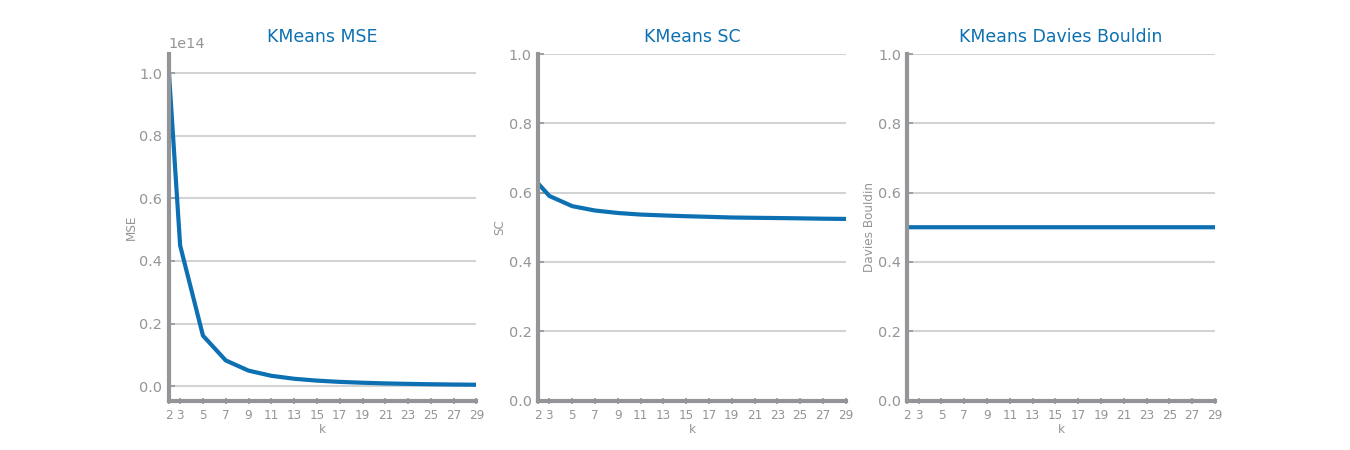
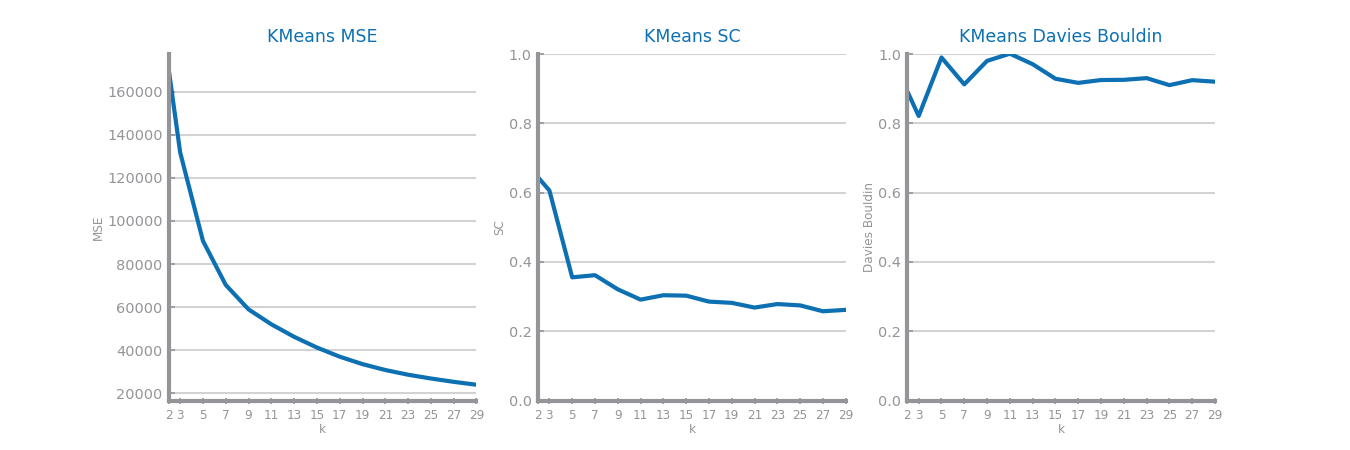
Added all clustering results

diff --git a/clustering.py b/clustering.py
@@ -42,10 +42,10 @@ N_CLUSTERS_NYC = [2, 3, 5, 7, 9, 11, 13, 15, 17, 19, 21, 23, 25, 27, 29]
 rows_nyc, cols_nyc = choose_grid(len(N_CLUSTERS_NYC))
 figname_nyc = "nyc_collisions"
 
-data_air = data_air.sample(frac=0.3)
-data_air_pca = data_air_pca.sample(frac=0.6)
-data_nyc = data_nyc.sample(frac=0.5)
-data_nyc_pca = data_nyc_pca.sample(frac=0.6)
+data_air = data_air.sample(frac=0.15)
+data_air_pca = data_air_pca.sample(frac=0.2)
+data_nyc = data_nyc.sample(frac=0.4)
+data_nyc_pca = data_nyc_pca.sample(frac=0.4)
 #%%
 def kmeans(data, rows, cols, N_CLUSTERS, v1, v2, figname):
     print("KMeans running")
@@ -85,8 +85,7 @@ def kmeans(data, rows, cols, N_CLUSTERS, v1, v2, figname):
 #%%
 #kmeans(data_air, rows_air, cols_air, N_CLUSTERS_AIR, v1_air, v2_air, figname_air)
 #%%
-# TODO:
-# kmeans(data_air_pca, rows_air, cols_air, N_CLUSTERS_AIR, v1_air, v2_air, figname_air_pca)
+# kmeans(data_air_pca, rows_air, cols_air, N_CLUSTERS_AIR, v1_air, v2_air_pca, figname_air_pca)
 
 #%%
 def em(data, rows, cols, N_CLUSTERS, v1, v2, figname):
@@ -169,14 +168,14 @@ def eps_dsbased(data, rows, cols, N_CLUSTERS, v1, v2, figname):
     fig.savefig(f'images/lab8/clustering/{figname}_eps_dsbased_line.png')
     show()
     
-#%% TODO
-eps_dsbased(data_air, rows_air, cols_air, N_CLUSTERS_AIR, v1_air, v2_air, figname_air)
-#%% TODO
-eps_dsbased(data_air_pca, rows_air, cols_air, N_CLUSTERS_AIR, v1_air, v2_air_pca, figname_air_pca)
-#%% TODO
-eps_dsbased(data_nyc, rows_nyc, cols_nyc, N_CLUSTERS_NYC, v1_nyc, v2_nyc, figname_nyc)
-#%% TODO
-eps_dsbased(data_nyc_pca, rows_nyc, cols_nyc, N_CLUSTERS_NYC, v1_nyc, v2_nyc, figname_nyc_pca)
+#%% 
+eps_dsbased(data_air, rows_air, cols_air, N_CLUSTERS_AIR, v1_air, 2, figname_air)
+#%% 
+#eps_dsbased(data_air_pca, rows_air, cols_air, N_CLUSTERS_AIR, v1_air, v2_air_pca, figname_air_pca)
+#%% TODO bad results?
+#eps_dsbased(data_nyc, rows_nyc, cols_nyc, N_CLUSTERS_NYC, v1_nyc, v2_nyc, figname_nyc)
+#%% TODO bad results?
+#eps_dsbased(data_nyc_pca, rows_nyc, cols_nyc, N_CLUSTERS_NYC, v1_nyc, v2_nyc, figname_nyc_pca)
 
 
 #%%
@@ -233,15 +232,15 @@ def eps_metric(data, rows, cols, v1, v2, figname):
     fig.savefig(f'images/lab8/clustering/{figname}_eps_metric_bar.png')
     show()
     
-#%% TODO
-eps_metric(data_air, rows_air, cols_air, v1_air, v2_air, figname_air)
-#%% TODO
-eps_metric(data_air_pca, rows_air, cols_air, v1_air, v2_air_pca, figname_air_pca)
-#%% TODO
-eps_metric(data_nyc, rows_nyc, cols_nyc, v1_nyc, v2_nyc, figname_nyc)
+#%%
+#eps_metric(data_air, rows_air, cols_air, v1_air, v2_air, figname_air)
+#%%  TODO BAD RESULTS?
+#eps_metric(data_air_pca, rows_air, cols_air, v1_air, v2_air_pca, figname_air_pca)
+#%% 
+#eps_metric(data_nyc, rows_nyc, cols_nyc, v1_nyc, v2_nyc, figname_nyc)
 
-#%% TODO
-eps_metric(data_nyc_pca, rows_nyc, cols_nyc, v1_nyc, v2_nyc, figname_nyc_pca)
+#%% 
+#eps_metric(data_nyc_pca, rows_nyc, cols_nyc, v1_nyc, v2_nyc, figname_nyc_pca)
 
 #%%
 def hierarchical(data, rows, cols, N_CLUSTERS, v1, v2, figname):
@@ -251,7 +250,7 @@ def hierarchical(data, rows, cols, N_CLUSTERS, v1, v2, figname):
     mae: list = []
     db: list = []
     rows, cols = choose_grid(len(N_CLUSTERS))
-    _, axs = subplots(rows, cols, figsize=(cols*5, rows*5), squeeze=False)
+    fig, axs = subplots(rows, cols, figsize=(cols*5, rows*5), squeeze=False)
     i, j = 0, 0
     for n in range(len(N_CLUSTERS)):
         print("-",n)
@@ -261,18 +260,20 @@ def hierarchical(data, rows, cols, N_CLUSTERS, v1, v2, figname):
         labels = estimator.labels_
         centers = compute_centroids(data, labels)
         mse.append(compute_mse(data.values, labels, centers))
-        sc.append(silhouette_score(data, labels))
         mae.append(compute_mae(data.values, labels, centers))
+        sc.append(silhouette_score(data, labels))
         db.append(davies_bouldin_score(data, labels))
         plot_clusters(data, v2, v1, labels, centers, k, f'Hierarchical k={k}', ax=axs[i,j])
         i, j = (i + 1, 0) if (n+1) % cols == 0 else (i, j + 1)
-    show()
+    fig.savefig(f'images/lab8/clustering/{figname}_hierarquical_clusters.png')
     fig, ax = subplots(1, 4, figsize=(12, 3), squeeze=False)
     plot_line(N_CLUSTERS, mse, title='Hierarchical MSE', xlabel='k', ylabel='MSE', ax=ax[0, 0])
     plot_line(N_CLUSTERS, sc, title='Hierarchical SC', xlabel='k', ylabel='SC', ax=ax[0, 1], percentage=True)
     plot_line(N_CLUSTERS, mae, title='Hierarchical MAE', xlabel='k', ylabel='MAE', ax=ax[0, 2], percentage=True)
     plot_line(N_CLUSTERS, db, title='Hierarchical Davies Bouldin', xlabel='k', ylabel='Davies Bouldin', ax=ax[0, 3], percentage=True)
-    show()
+    fig.savefig(f'images/lab8/clustering/{figname}_hierarquical_lines.png')
+    
+    print("plotting bars")
     
     METRICS = ['euclidean', 'cityblock', 'chebyshev', 'cosine', 'jaccard']
     LINKS = ['complete', 'average']
@@ -283,30 +284,34 @@ def hierarchical(data, rows, cols, N_CLUSTERS, v1, v2, figname):
     values_db = {}
     rows = len(METRICS)
     cols = len(LINKS)
-    _, axs = subplots(rows, cols, figsize=(cols*5, rows*5), squeeze=False)
+    fig, axs = subplots(rows, cols, figsize=(cols*5, rows*5), squeeze=False)
     for i in range(len(METRICS)):
+        print("-",i)
         mse: list = []
         sc: list = []
+        mae: list = []
+        db: list = []
         m = METRICS[i]
         for j in range(len(LINKS)):
+            print("--",j)
             link = LINKS[j]
             estimator = AgglomerativeClustering(n_clusters=k, linkage=link, affinity=m )
             estimator.fit(data)
             labels = estimator.labels_
             centers = compute_centroids(data, labels)
             mse.append(compute_mse(data.values, labels, centers))
-            sc.append(silhouette_score(data, labels))
             mae.append(compute_mae(data.values, labels, centers))
+            sc.append(silhouette_score(data, labels))
             db.append(davies_bouldin_score(data, labels))
             plot_clusters(data, v2, v1, labels, centers, k, f'Hierarchical k={k} metric={m} link={link}', ax=axs[i,j])
         values_mse[m] = mse
-        values_sc[m] = sc
         values_mae[m] = mae
+        values_sc[m] = sc
         values_db[m] = db
     fig.savefig(f'images/lab8/clustering/{figname}_hierarchical_scatter.png')
     show()
     
-    _, ax = subplots(1, 4, figsize=(12, 3), squeeze=False)
+    fig, ax = subplots(1, 4, figsize=(12, 3), squeeze=False)
     multiple_bar_chart(LINKS, values_mse, title=f'Hierarchical MSE', xlabel='metric', ylabel='MSE', ax=ax[0, 0])
     multiple_bar_chart(LINKS, values_sc, title=f'Hierarchical SC', xlabel='metric', ylabel='SC', ax=ax[0, 1], percentage=True)
     multiple_bar_chart(LINKS, values_mae, title=f'Hierarchical MAE', xlabel='metric', ylabel='MAE', ax=ax[0, 2])
@@ -315,12 +320,12 @@ def hierarchical(data, rows, cols, N_CLUSTERS, v1, v2, figname):
     show()
 
     
-#%% TODO
-hierarchical(data_air, rows_air, cols_air, N_CLUSTERS_AIR, v1_air, v2_air, figname_air)
-#%% TODO
-hierarchical(data_air_pca, rows_air, cols_air, N_CLUSTERS_AIR, v1_air, v2_air_pca, figname_air_pca)
-#%% TODO
-hierarchical(data_nyc, rows_nyc, cols_nyc, N_CLUSTERS_NYC, v1_nyc, v2_nyc, figname_nyc)
+#%%
+#hierarchical(data_nyc, rows_nyc, cols_nyc, N_CLUSTERS_NYC, v1_nyc, v2_nyc, figname_nyc)
 
-#%% TODO
-hierarchical(data_nyc_pca, rows_nyc, cols_nyc, N_CLUSTERS_NYC, v1_nyc, v2_nyc, figname_nyc_pca)
+#%%
+#hierarchical(data_nyc_pca, rows_nyc, cols_nyc, N_CLUSTERS_NYC, v1_nyc, v2_nyc, figname_nyc_pca)
+#%% 
+#hierarchical(data_air, rows_air, cols_air, N_CLUSTERS_AIR, v1_air, v2_air, figname_air)
+#%%
+#hierarchical(data_air_pca, rows_air, cols_air, N_CLUSTERS_AIR, v1_air, v2_air_pca, figname_air_pca)
